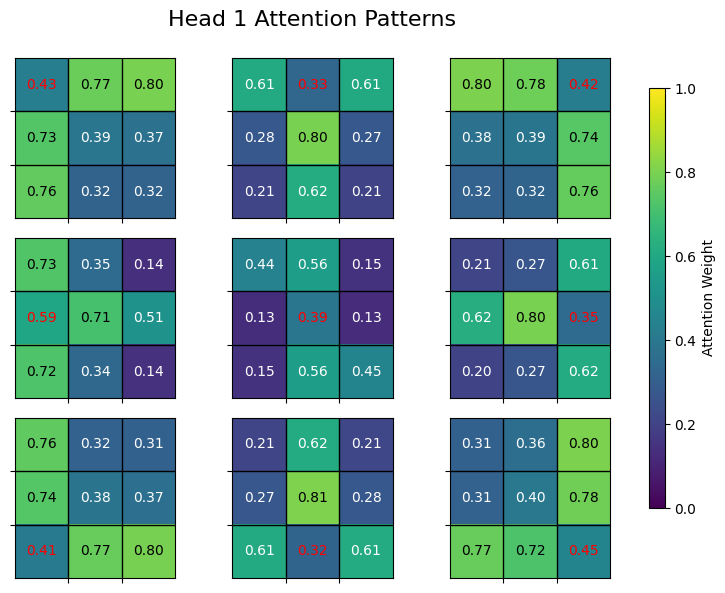
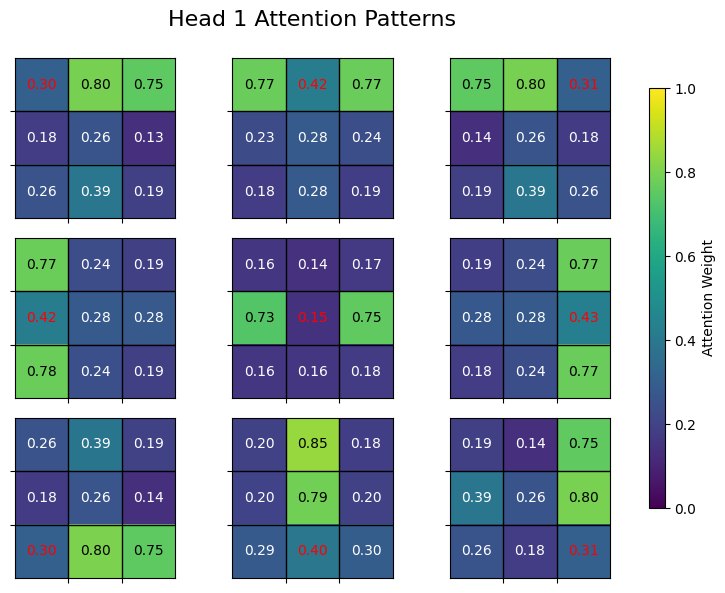
Added another plot to front page

diff --git a/README.md b/README.md
@@ -21,4 +21,8 @@ PYTHONPATH=$PYTHONPATH:. python applications/tic_tac_toe/train.py --model transf
 
 The `--wandb` argument enables logging of various metrics, the model, and replay buffer. The `--resume_id` argument means that training will resume a previous training run (in this case with id `1q109a9s`).
 
+### Interpretability
+
 ![Attention mask](applications/tic_tac_toe/plots/tic_tac_toe_attn_mask.png)
+
+![Head 1 attention pattern](applications/tic_tac_toe/plots/tic_tac_toe_head_1.png)
